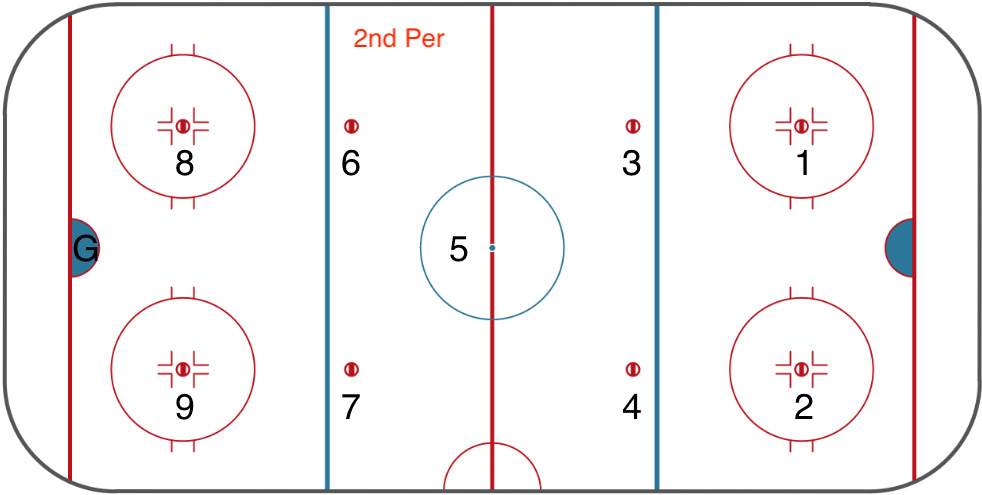
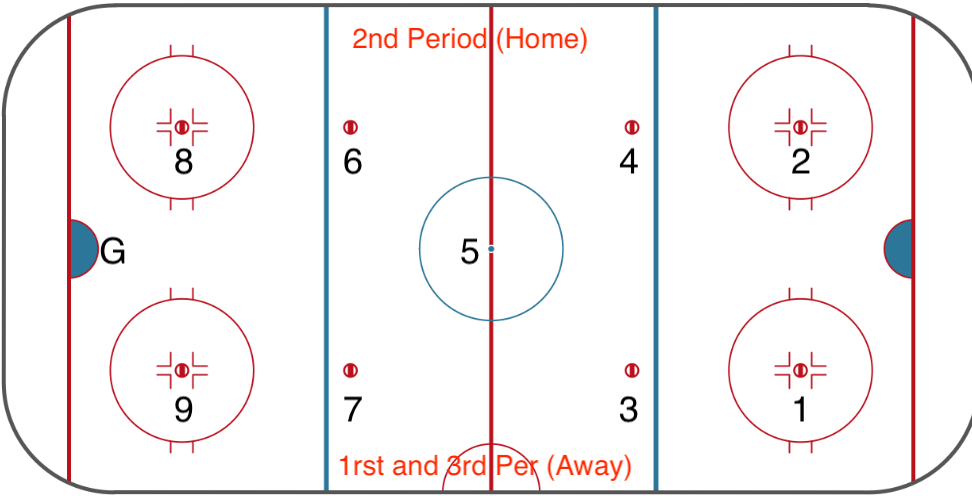
(feat): re-mapping rink photos

diff --git a/src/database_gui_main.py b/src/database_gui_main.py
@@ -9,10 +9,10 @@ from pandas.io import sql
 from PIL import ImageTk, Image
 
 ZONE_MAPPING = {
-    "1": "LO",
-    "2": "RO",
-    "3": "LONZ",
-    "4": "RONZ",
+    "1": "RO",
+    "2": "LO",
+    "3": "RONZ",
+    "4": "LONZ",
     "5": "C",
     "6": "LDNZ",
     "7": "RDNZ",
@@ -80,7 +80,7 @@ def build_hockey_query(table_name, husky: str, opp: str, period: str, strength: 
 
 ROOT = '/Users/brandonhampstead/Documents/NortheasternHockey'
 DB_TEMP_PATH = f'{ROOT}/faceoff_tracker/src/faceoff_data_model.csv'
-FIRST_THIRD_RINK = f'{ROOT}/faceoff_tracker/src/hori_hockey_rink.png'
+FIRST_THIRD_RINK = f'{ROOT}/faceoff_tracker/src/first_and_third_rink.png'
 SECOND_RINK = f'{ROOT}/faceoff_tracker/src/second_period_rink.png'
 
 if __name__ == '__main__':
